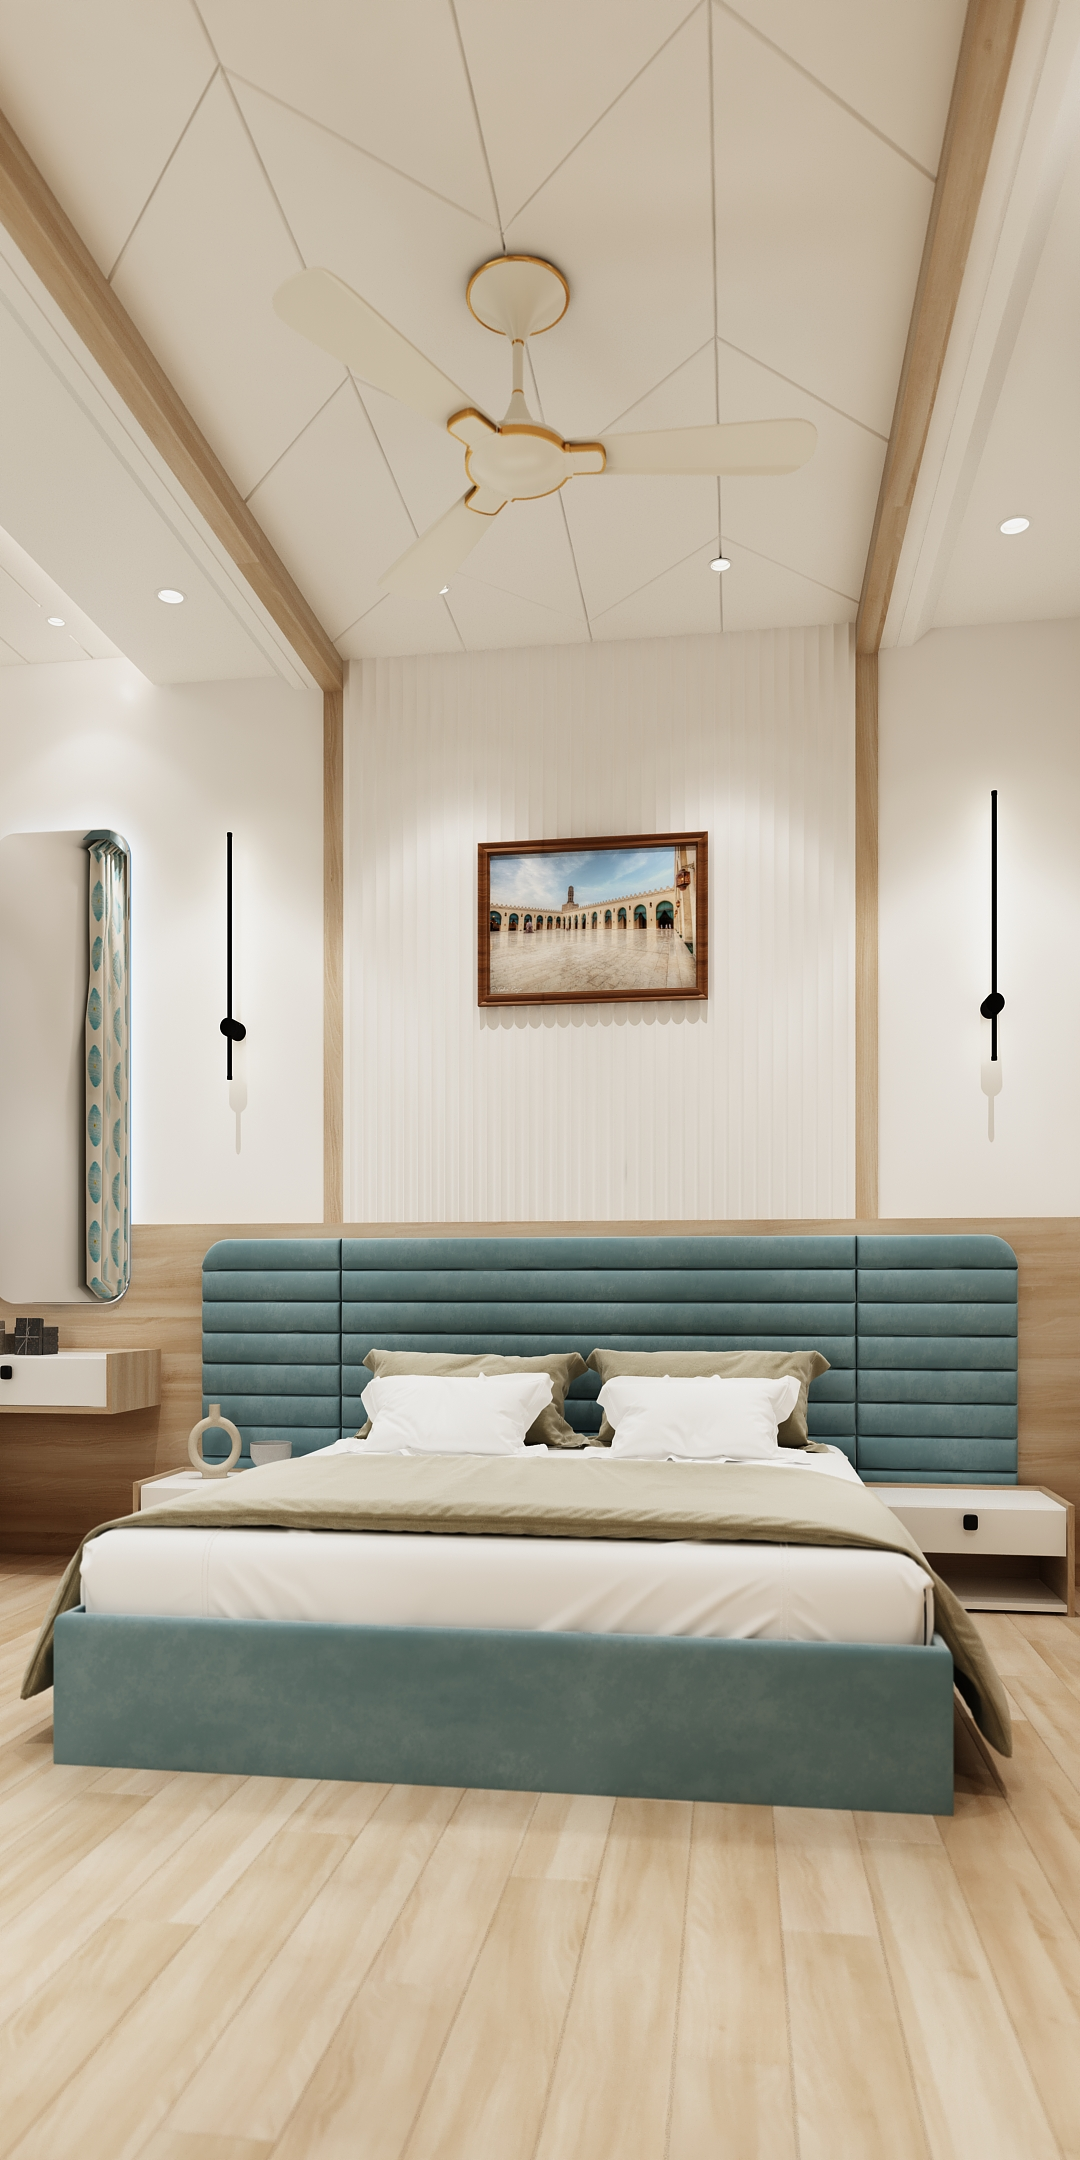
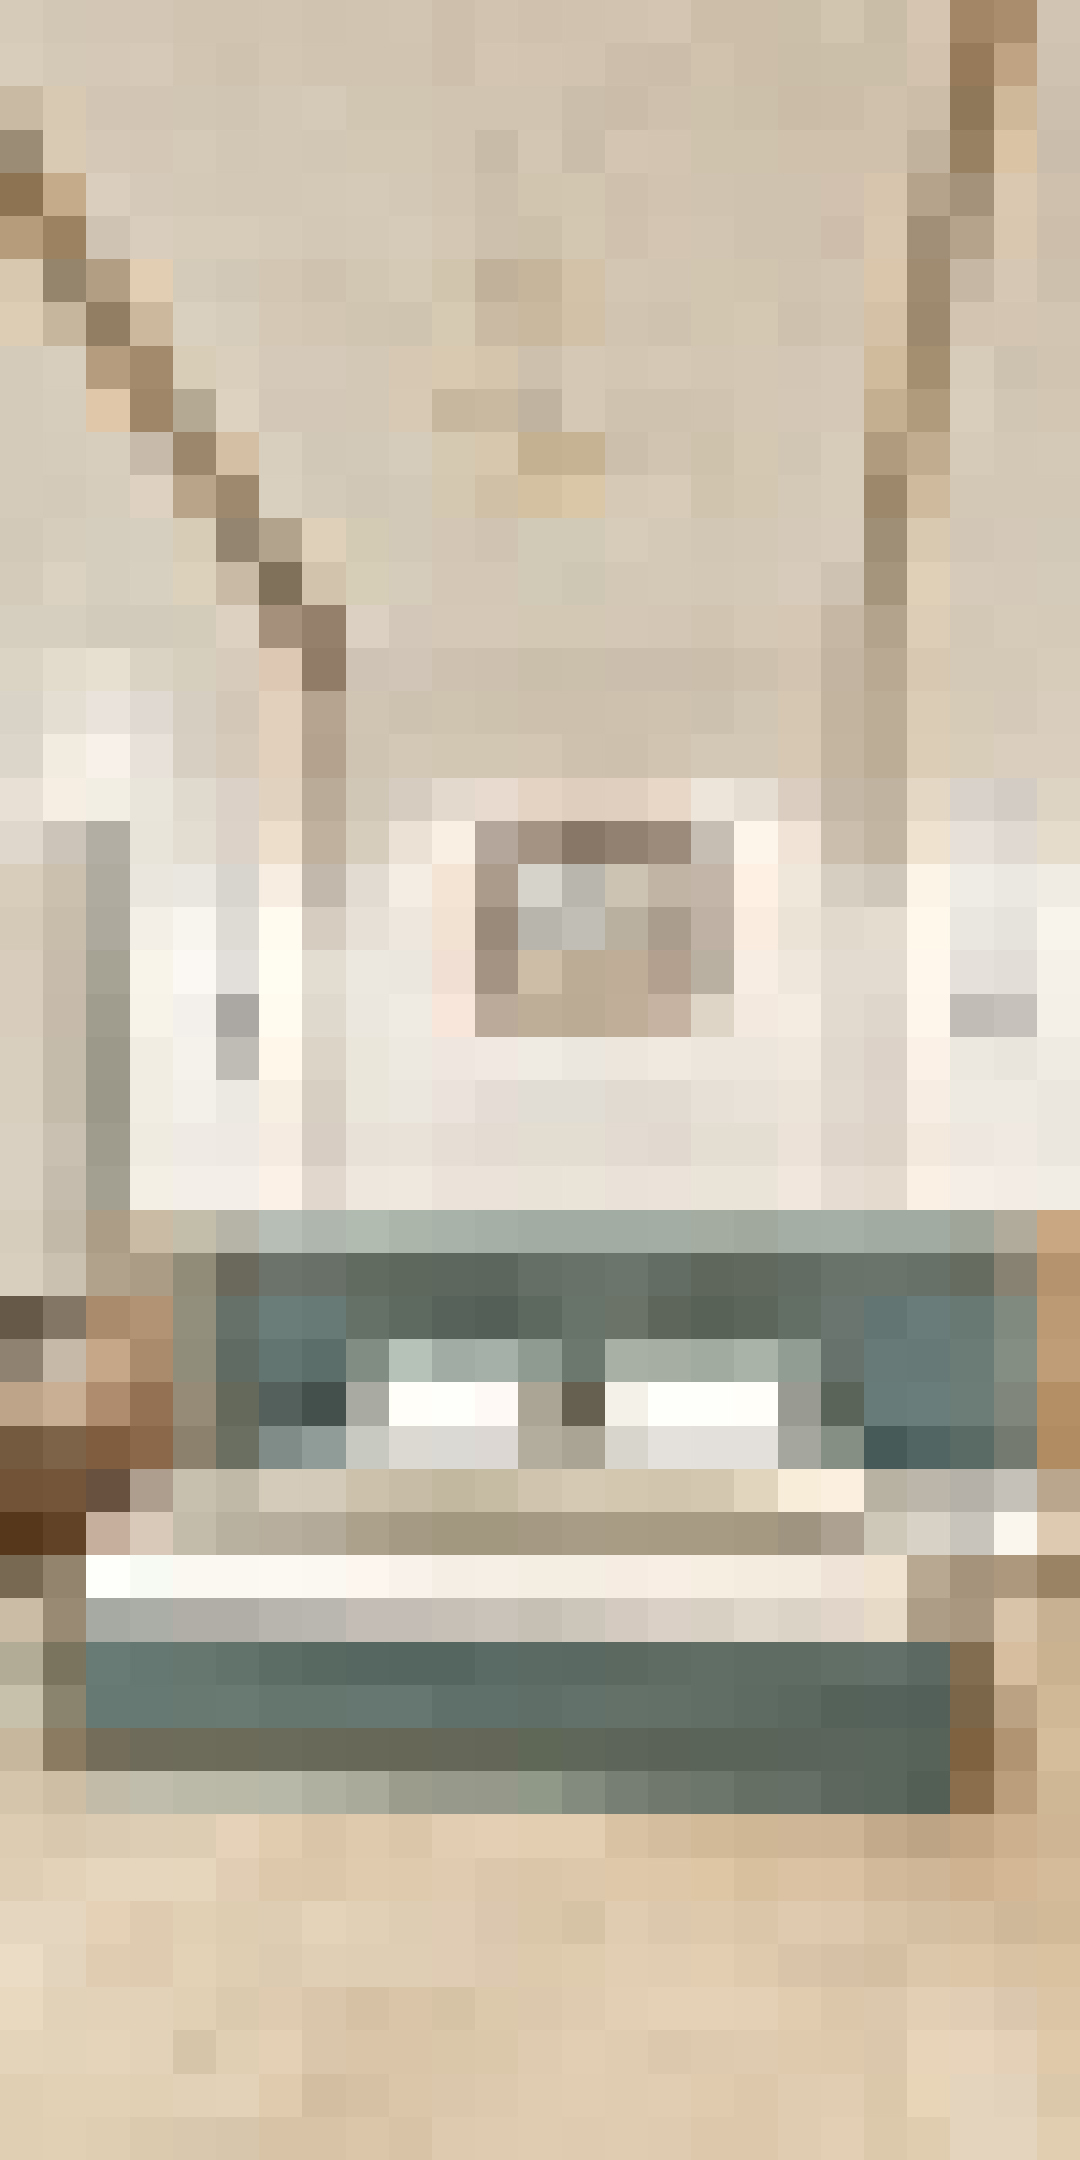
image Update

diff --git a/src/App.jsx b/src/App.jsx
@@ -5,9 +5,9 @@ import PixelatedCanvas from "./PixelEffect";
 function App() {
   return (
     <>
-      {/* <Pixelated /> */}
+      <Pixelated />
       {/* <BlurEffect /> */}
-      <PixelatedCanvas />
+      {/* <PixelatedCanvas /> */}
     </>
   );
 }

diff --git a/src/Pixelated.jsx b/src/Pixelated.jsx
@@ -68,6 +68,8 @@ const Pixelated = () => {
     "/images/image6.jpg",
     "/images/image7.jpg",
     "/images/image8.jpg",
+    "/images/image9.jpg",
+    "/images/image10.jpg",
   ];
 
   const [currentImageIndex, setCurrentImageIndex] = useState(0);
